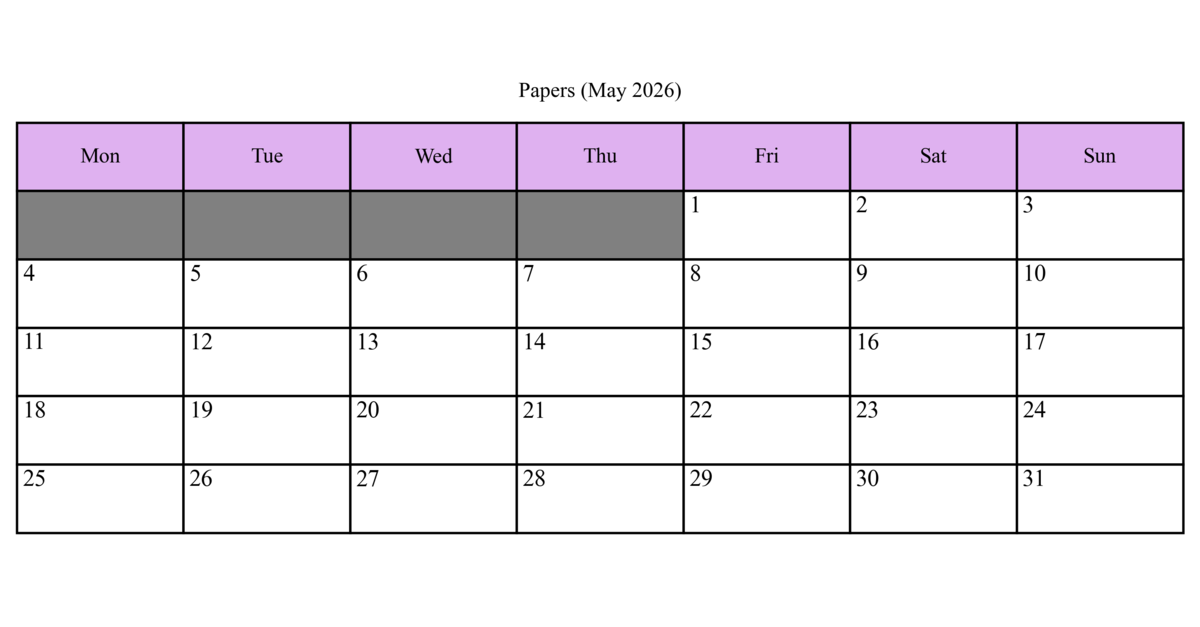
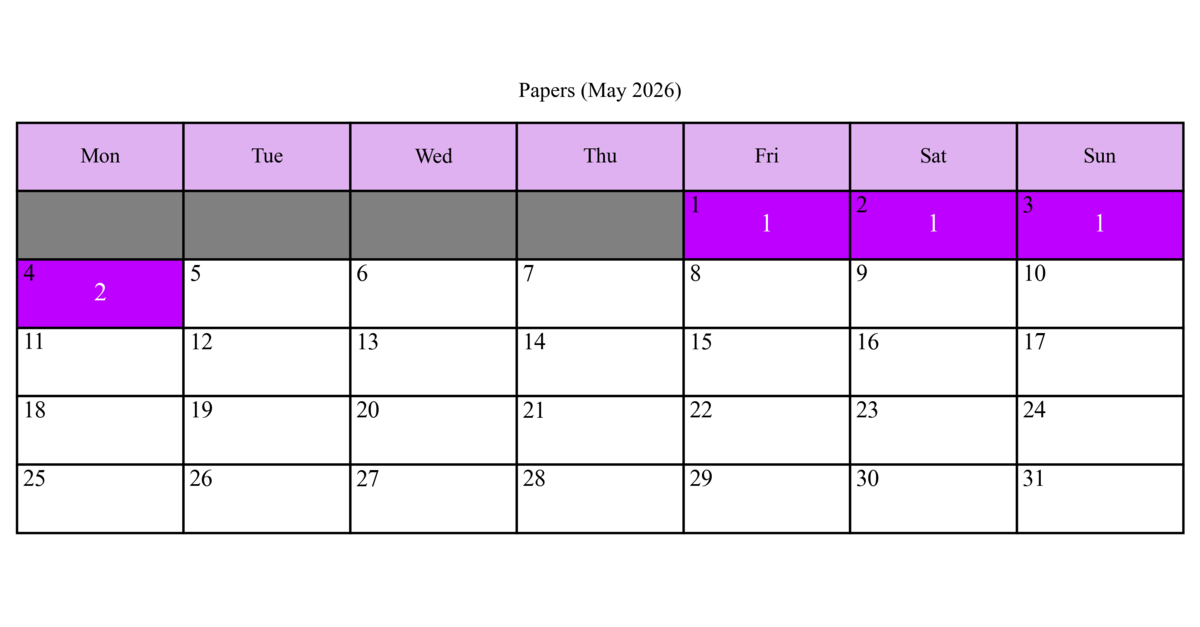
(Automated) updated paper log: May 05, 2026

Changed region(s): [[0.555, 0.303, 0.9867, 0.4242], [0.0, 0.3939, 0.1542, 0.5455]]

diff --git a/papers/index.html b/papers/index.html
@@ -29,11 +29,13 @@
       <div class="main-content">
         <div class="main-section">
           <!-- <summary_text> -->
-<p>This is where I log the papers I've read this year. My goal for 2026 is to read 300 papers. By the time this document was last updated (<b>May 01, 2026</b>), I have read <b>35 papers</b> this year. I should have read <b>99 papers</b> by this time, meaning I am <b>64 papers behind schedule</b>.</p>
+<p>This is where I log the papers I've read this year. My goal for 2026 is to read 300 papers. By the time this document was last updated (<b>May 05, 2026</b>), I have read <b>40 papers</b> this year. I should have read <b>102 papers</b> by this time, meaning I am <b>62 papers behind schedule</b>.</p>
           <!-- </summary_text> -->
           <p><img src="cal.png" style="width: 100%;" alt="A monthly calendar depicting the following tabular data graphically."></p>
           <!-- <paper_table> -->
 <table>
+  <tr><td>5/4/26</td><td>Orca, A Distributed Serving System for Transformer-Based Generative Models</td><td><a href="https://www.usenix.org/system/files/osdi22-yu.pdf" target="_parent">Link</a></td><td>Seoul National University, OSDI, 2022</td></tr>
+  <tr><td>5/4/26</td><td>Measuring AI Agents' Progress on Multi-Step Cyber Attack Scenarios</td><td><a href="https://arxiv.org/pdf/2603.11214" target="_parent">Link</a></td><td>AI Security Institute, arXiv, 2026</td></tr>
   <tr><td>4/30/26</td><td>Pie: Pooling CPU Memory for LLM Inference</td><td><a href="https://arxiv.org/abs/2411.09317" target="_parent">Link</a></td><td>UC Berkeley, arXiv, 2024</td></tr>
   <tr><td>4/29/26</td><td>Oneiros: KV Cache Optimization through Parameter Remapping for Multi-tenant LLM Serving</td><td><a href="https://dl.acm.org/doi/10.1145/3772052.3772215" target="_parent">Link</a></td><td>UT Austin, SoCC, 2026</td></tr>
   <tr><td>3/9/26</td><td>HiCCL: A Hierarchical Collective Communication Library</td><td><a href="https://www.computer.org/csdl/proceedings-article/ipdps/2025/323700a950/28Ai730OZtS" target="_parent">Link</a></td><td>Stanford University, IPDPS, 2025</td></tr>
@@ -77,7 +79,7 @@
       <!-- <last_updated_text> --> 
 <div class="last-updated">
   <p class="last-updated-text">
-    Last updated: May 01, 2026 at 14:53 UTC.
+    Last updated: May 05, 2026 at 14:44 UTC.
   </p>
 </div>
 